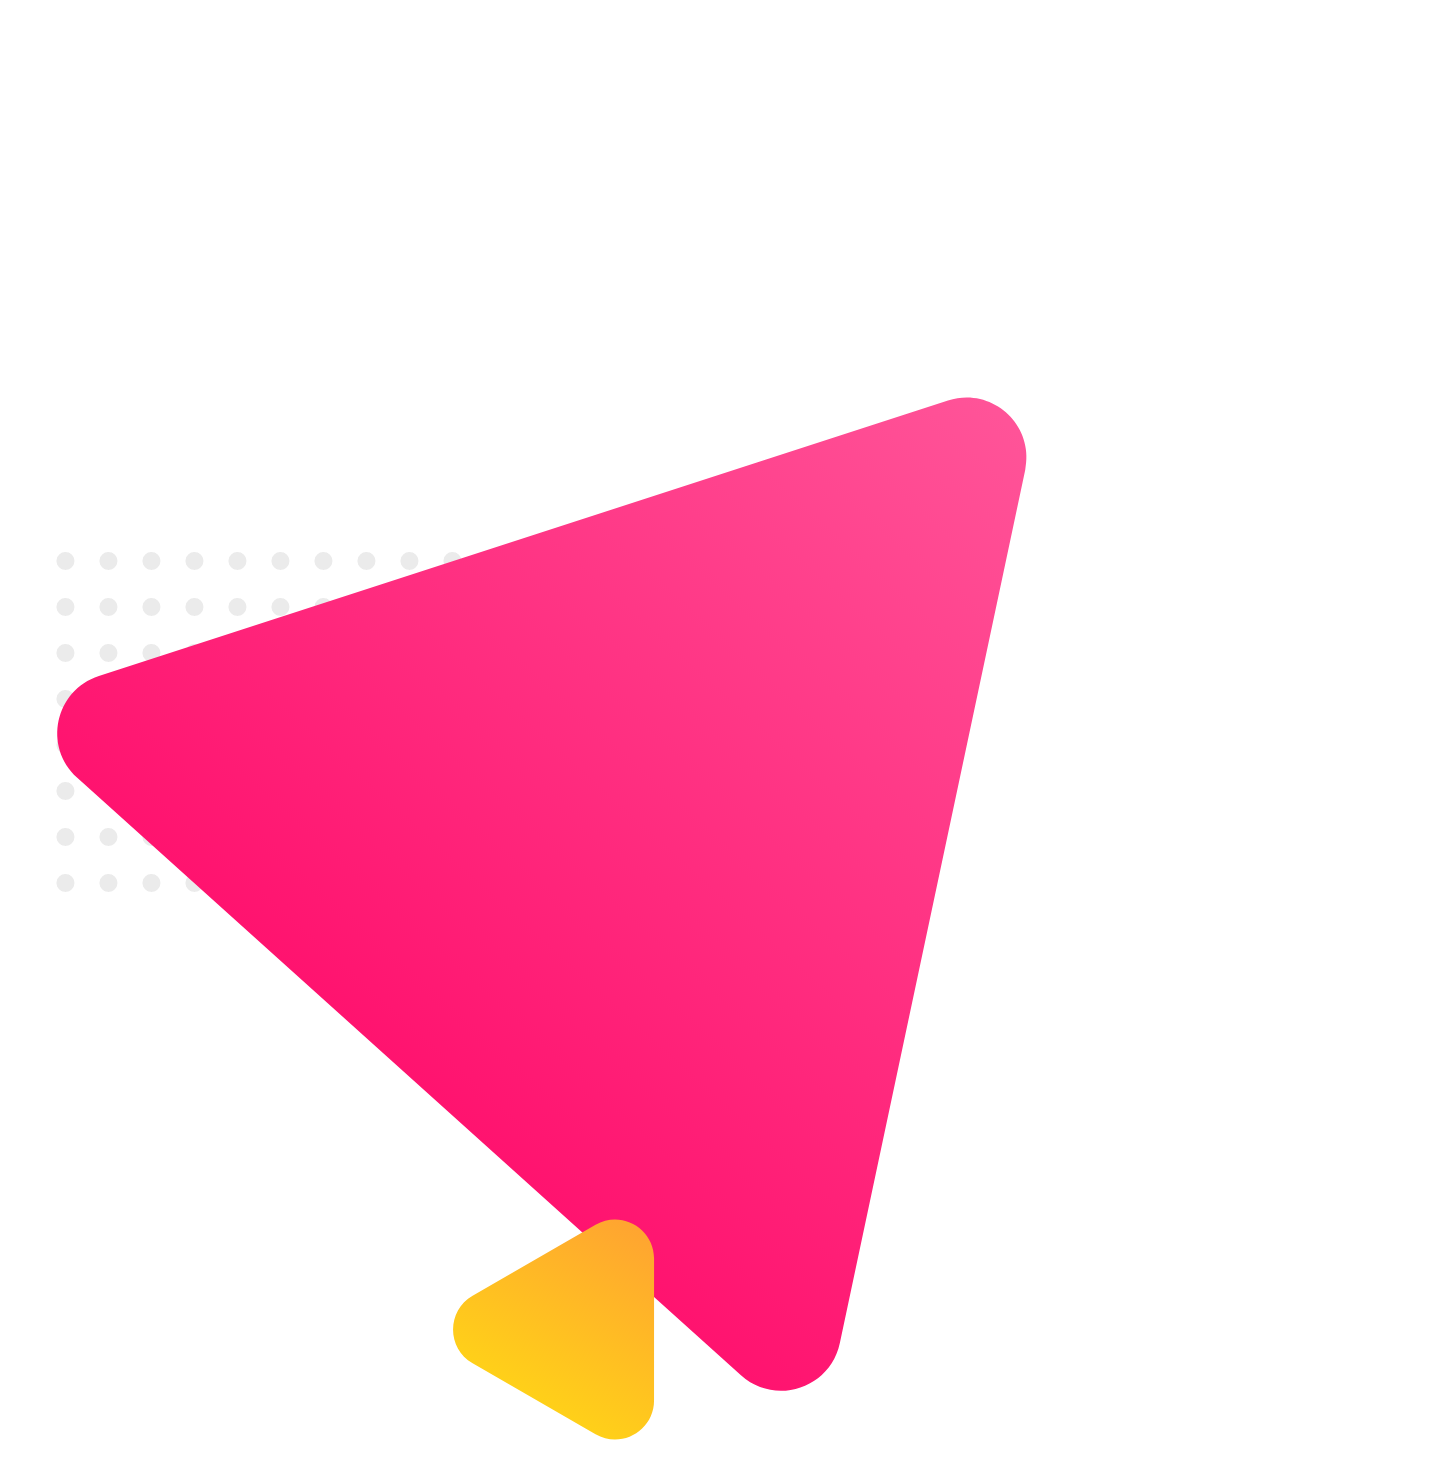
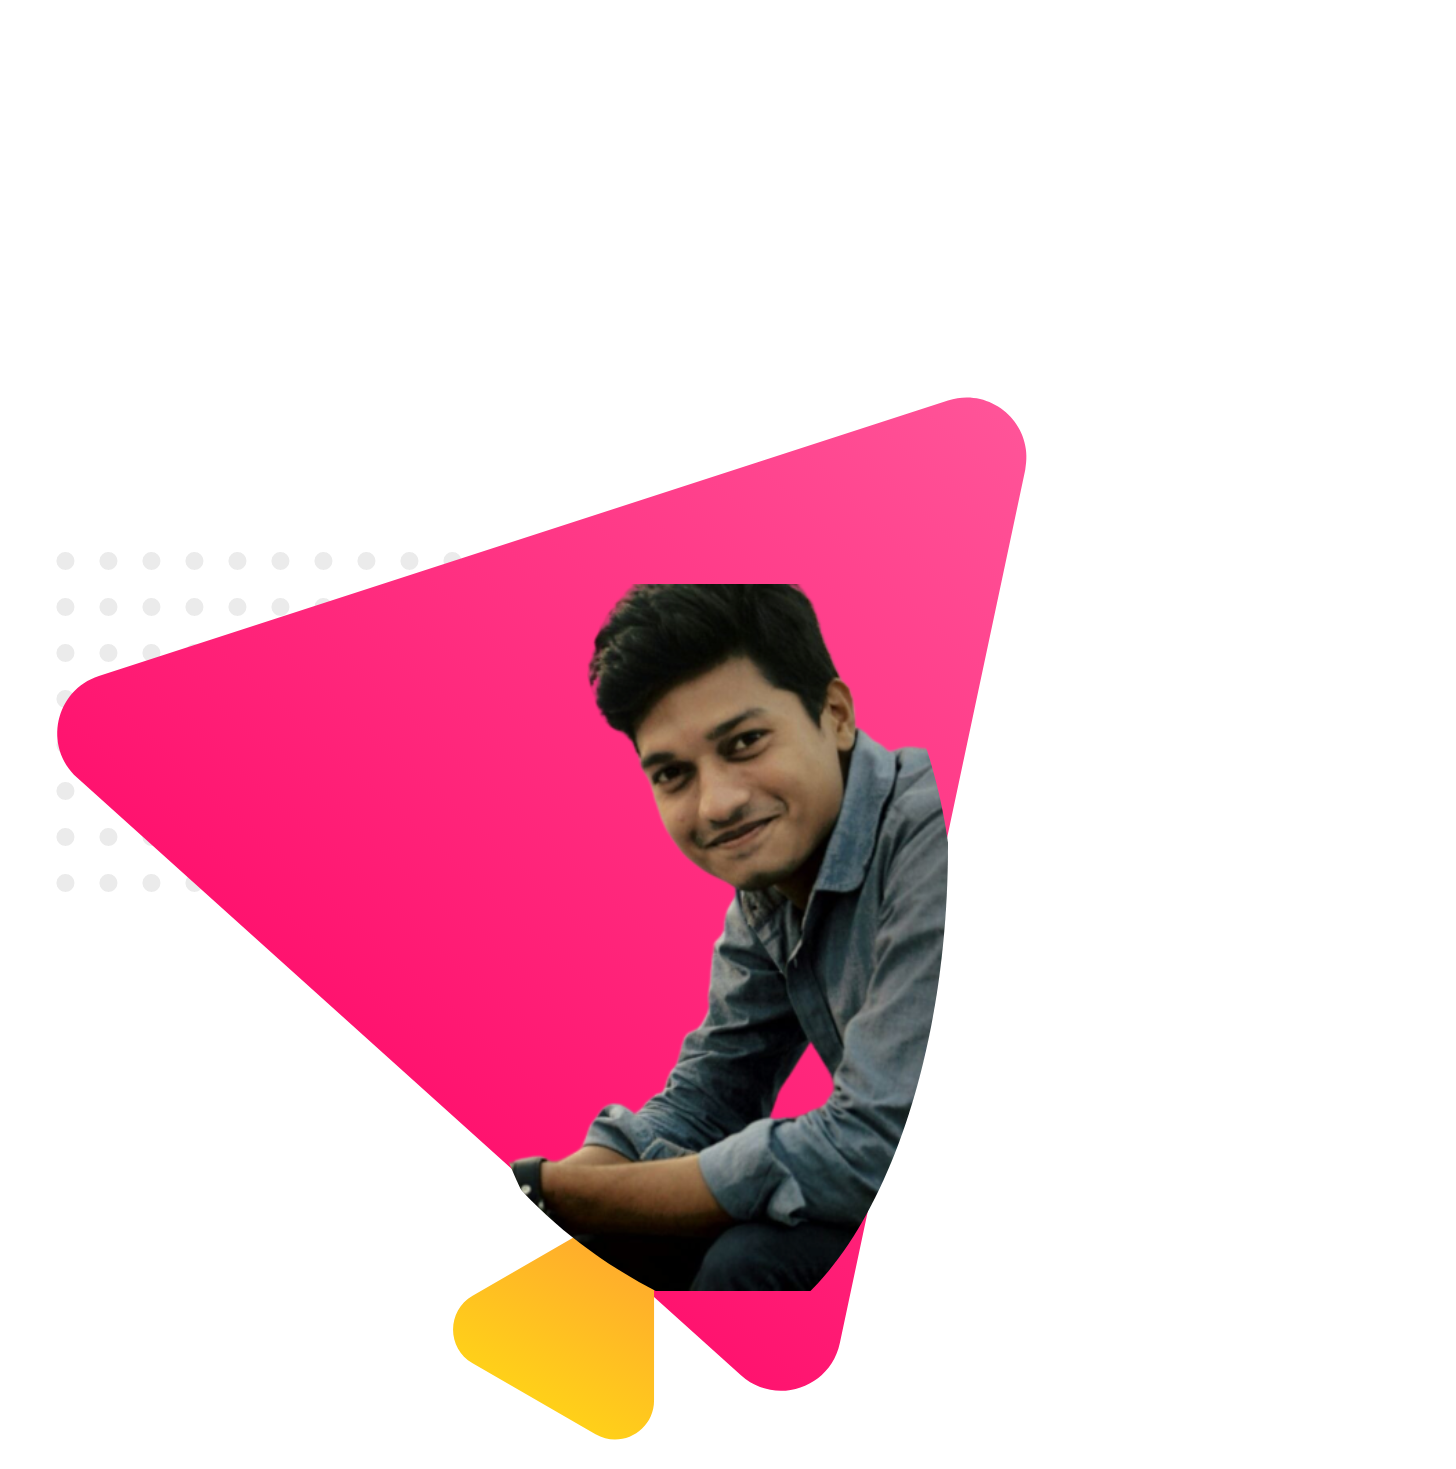
Finished My Personal Website

Changed region(s): [[0.34, 0.3982, 0.649, 0.8884]]

diff --git a/index.html b/index.html
@@ -1,0 +1,63 @@
+<!DOCTYPE html>
+<html lang="en">
+<head>
+    <meta charset="UTF-8">
+    <meta name="viewport" content="width=device-width, initial-scale=1.0">
+    <title>Personal Website</title>
+    <link href="https://fonts.googleapis.com/css2?family=Roboto+Slab&display=swap" rel="stylesheet">
+    <link rel="stylesheet" href="style.css">
+</head>
+<body>
+    <section class="top-banner">
+        <div class="half-width">
+            <h2 class="hello">Hello I'm</h2>
+            <h1><span class="lightred-highlight">Asif Ul Hoque</span> </h1>
+            <p>You might show me jumping, climbing buildings, and stopping trains, But nobody pays me a dime for that work.</p>
+            <a class="link-button" target="_blank" href="https://www.linkedin.com/feed/">Hire Me</a>
+        </div>
+        <div class="half-width"><img src="images/image 14.png" alt=""></div>
+    
+    </section>
+
+    <section class="biography-area">
+            
+        <div class="half-width">
+            <img src="images/image 16.png" alt="">
+        </div>
+            
+         <div class="half-width">
+            <h2>Biography</h2>
+        
+            <p>Lorem ipsum dolor sit amet consectetur adipisicing elit. Quaerat fugit aliquid error omnis ratione iste? Ab tenetur odit quos eveniet laudantium aspernatur? A voluptatem doloremque accusamus labore sed quos! Saepe?</p>
+            <a class="link-button" target="_blank" href="https://www.linkedin.com/feed/">Download CV</a>
+         </div>  
+    
+    </section>
+
+    <section class="lateast-area">
+        <h1 class="text-area">My Lateast Work</h1>
+
+        <div class="work-photo">
+            <img src="images/work-1.png" alt="">
+            <img src="images/work-2.jpg" alt="">
+            <img src="images/work-3.jpg" alt="">
+        </div>
+    </section>
+
+    <section class="Last-area">
+        <div class="footer-area">
+        <h1 class="text-area">What Client are say</h1>
+        <h3>Bruce Moccy</h3>
+        <p class="lasttext-area">Fonder & CEO alies</p>
+        <p class="lasttext-areatwo">Lorem ipsum dolor sit amet consectetur adipisicing <br>elit. Sed nihil illum dolorem iste nulla minima tempora maxime </p>
+        <p class="last-paragraph">Leave me a massage in the</p>  
+        </div>
+
+        <a class="last-button" target="_blank" href="https://www.linkedin.com/feed/">asifchowdhury323@gmail.com</a>  
+    </section>
+
+    <footer class="mainfooter-area">
+        <p> Asif 2020, &copy; all rights reserved.</p>
+    </footer>
+</body>
+</html>

diff --git a/style.css b/style.css
@@ -1,0 +1,96 @@
+body{
+    font-family: 'Roboto Slab', serif;
+    margin: 0;
+
+}
+.hello{
+    font-weight: 700;
+}
+h1{
+    font-size: 50px;
+
+}
+
+.lightred-highlight{
+    color: rgb(255, 0, 157); 
+
+}
+.half-width{
+    padding-top: 50px;
+    width: 40%;
+    float: left;
+    margin-left: 5%;
+    padding-left: 2%;
+}
+.half-width img{
+    width: 100%;
+}
+.top-banner{
+    background-image: url("images/header-bg.png");
+    background-repeat: no-repeat;
+}
+section{
+    height: 500px;
+    padding-bottom: 150px;
+}
+.link-button{
+    text-decoration: none;
+    background-image: linear-gradient(45deg,rgb(235, 23, 23), rgb(255, 0, 157));
+    padding: 10px 30px;
+    border-radius: 5px;
+    color: white;
+    padding-top: 5px;
+}
+.biography-area{
+    background-image: url("images/biography-bg.png");
+    background-repeat: no-repeat;
+}
+.text-area{
+    text-align: center;
+}
+.lateast-area{
+    background-image: url("images/latest-work-bg.png");
+    background-repeat: no-repeat;
+}
+.work-photo{
+    width: 30%;
+    display: flex;
+    padding-left: 40px;
+    padding-top: 50px;
+    
+}
+.work-photo img{
+    width: 100%;
+    padding-left: 15px;
+    box-shadow: 5px 5px  20px rgb(192, 186, 186);
+    border-radius: 5px;
+}
+.Last-area{
+    background-image: url("images/footer-bg.png");
+    background-repeat: no-repeat;
+    text-align: center;
+}
+.lasttext-area{
+    color: gray;
+}
+.Last-areatwo{
+    padding-top: 50px;
+    font-weight: 500;
+}
+.last-button{
+    color: transparent rgb(255, 0, 157);
+    text-decoration: none;
+    background-image: linear-gradient(45deg,rgb(235, 23, 154), rgb(255, 0, 157));
+    padding: 40px 80px;
+    border-radius: 5px;
+    color: white;
+    padding-top: 45px;
+}
+.footer-area{
+    padding-bottom: 50px;
+}
+.mainfooter-area{
+    height:  50px;
+    background-color:gray;
+    text-align: center;
+}
